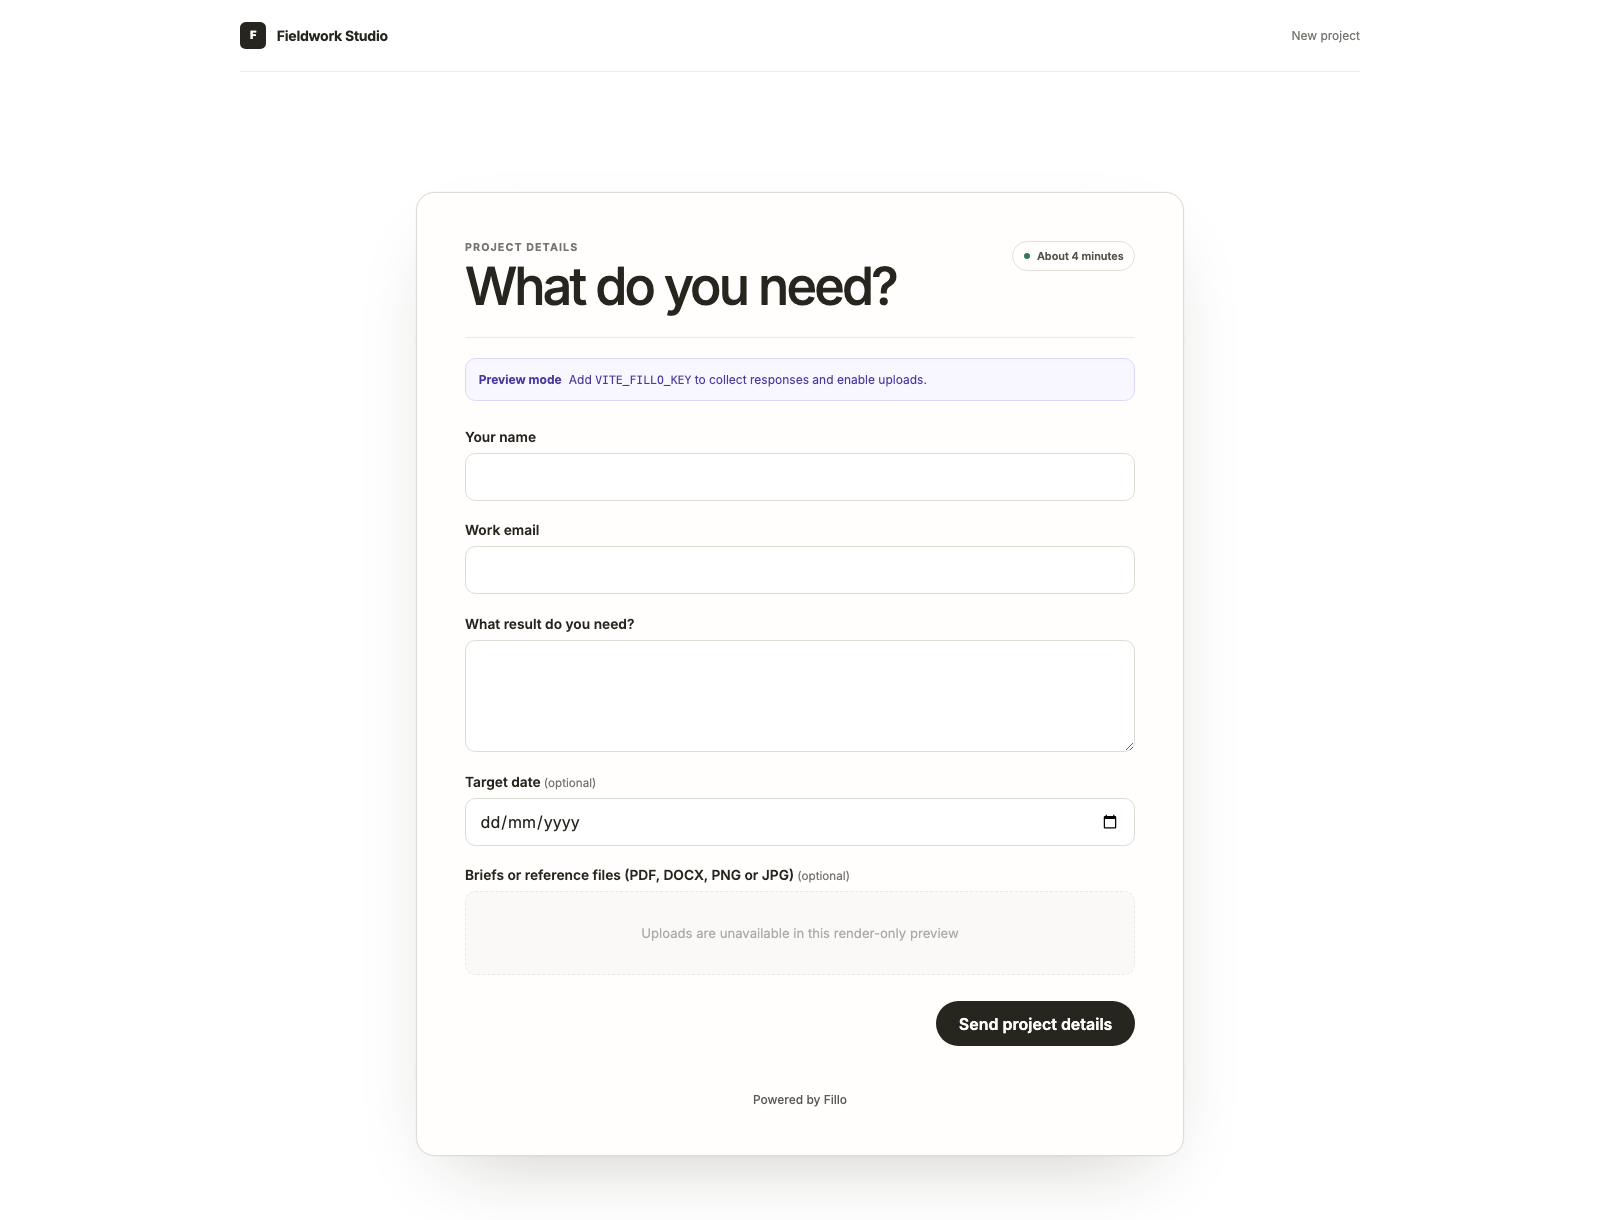
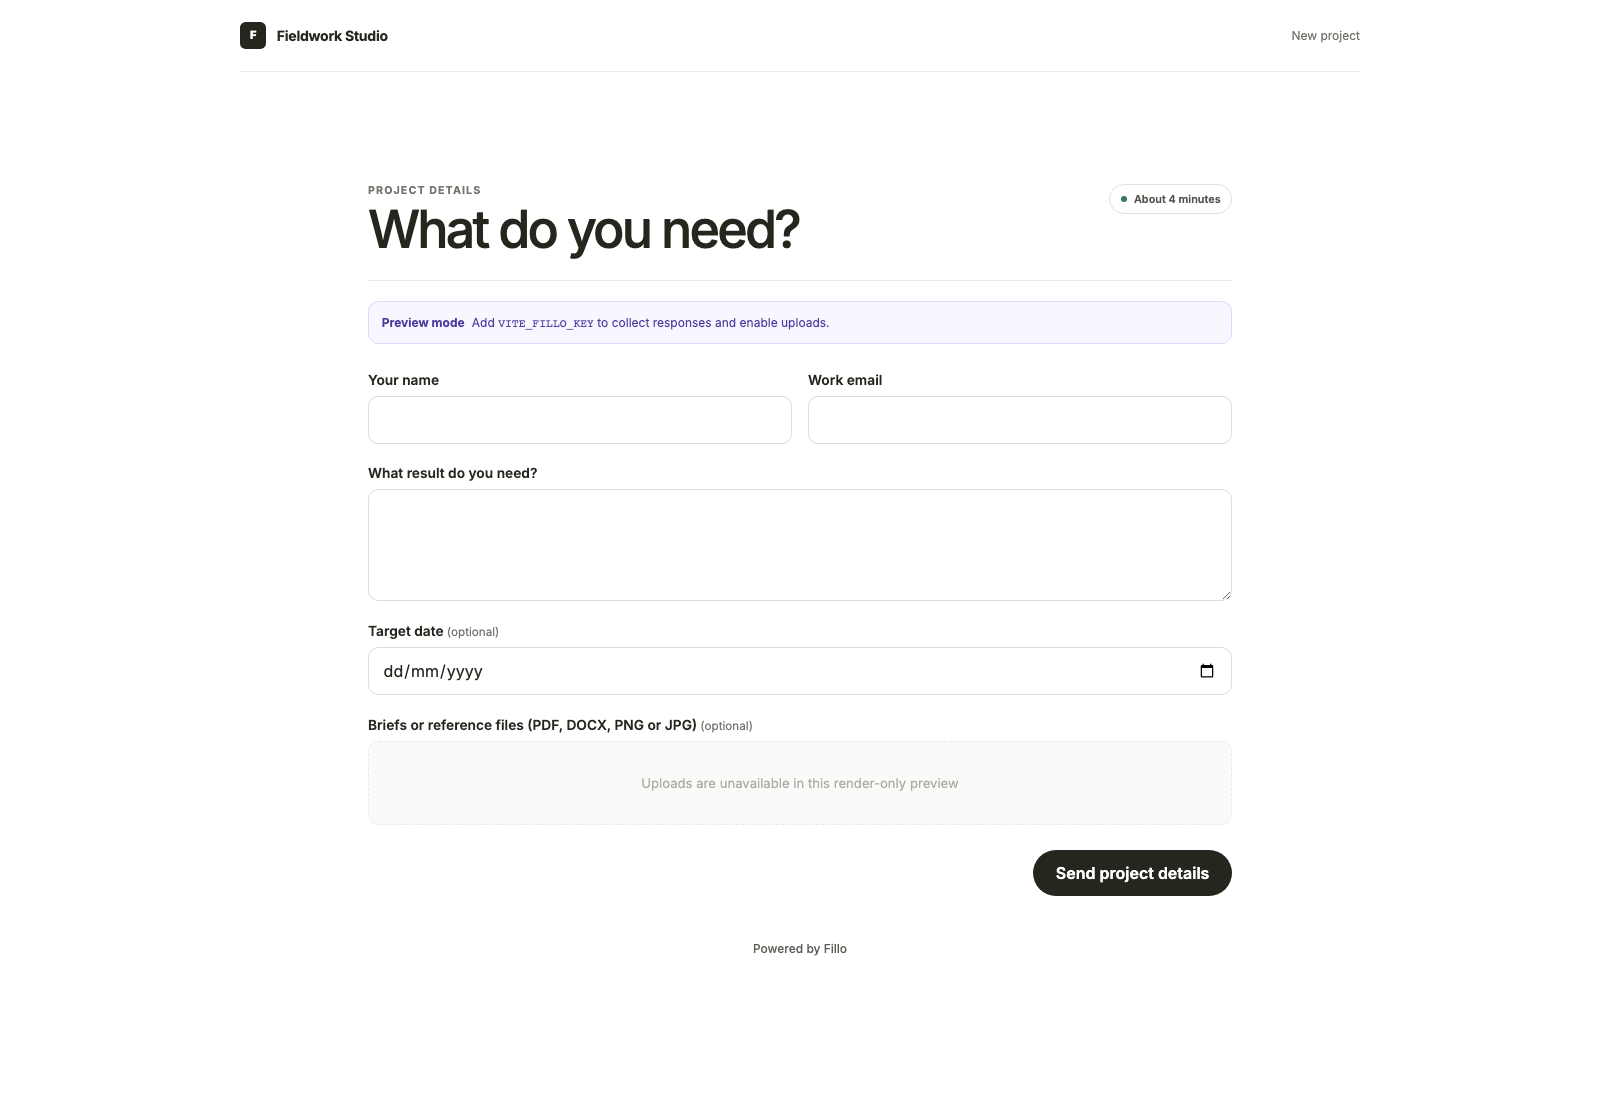
Compose fields in the host grid

diff --git a/src/styles.css b/src/styles.css
@@ -74,15 +74,15 @@ a:focus-visible {
   position: relative;
   display: grid;
   place-items: start center;
-  padding: clamp(4rem, 9vw, 7.5rem) 0 4rem;
+  padding: clamp(4rem, 9vw, 7rem) 0 4rem;
 }
 
 .intake-layout::before {
   position: absolute;
   z-index: -1;
-  top: clamp(2.5rem, 7vw, 5rem);
-  width: min(90%, 56rem);
-  height: 20rem;
+  top: clamp(2rem, 6vw, 4rem);
+  width: min(90%, 60rem);
+  height: 18rem;
   border-radius: 50%;
   background: radial-gradient(
     circle,
@@ -96,15 +96,8 @@ a:focus-visible {
 }
 
 .form-card {
-  width: min(100%, 48rem);
+  width: min(100%, 54rem);
   min-width: 0;
-  border: 1px solid #dedbd4;
-  border-radius: 1.15rem;
-  background: #fffefd;
-  padding: clamp(1.5rem, 4vw, 3rem);
-  box-shadow:
-    0 0 0 0.5px rgb(38 37 30 / 5%),
-    0 2rem 5rem -2.4rem rgb(38 32 18 / 28%);
 }
 
 .form-heading {
@@ -186,7 +179,15 @@ h1 {
 }
 
 .form-card .fillo-blocks {
-  gap: 1.35rem;
+  /* The SDK renders native field wrappers, so this host page can place them on
+     its own grid instead of accepting an iframe-owned layout. */
+  display: grid;
+  grid-template-columns: repeat(2, minmax(0, 1fr));
+  gap: 1.35rem 1rem;
+}
+
+.form-card .fillo-blocks > :nth-child(n + 3) {
+  grid-column: 1 / -1;
 }
 
 .form-card .fillo-field {
@@ -259,6 +260,16 @@ h1 {
   line-height: 1.5;
 }
 
+@media (max-width: 44rem) {
+  .form-card .fillo-blocks {
+    grid-template-columns: minmax(0, 1fr);
+  }
+
+  .form-card .fillo-blocks > * {
+    grid-column: 1;
+  }
+}
+
 @media (max-width: 38rem) {
   .app-shell {
     width: min(calc(100% - 1.5rem), 70rem);
@@ -270,11 +281,6 @@ h1 {
 
   .intake-layout {
     padding-top: 2.5rem;
-  }
-
-  .form-card {
-    border-radius: 0.9rem;
-    padding: 1.35rem;
   }
 
   .form-heading {
